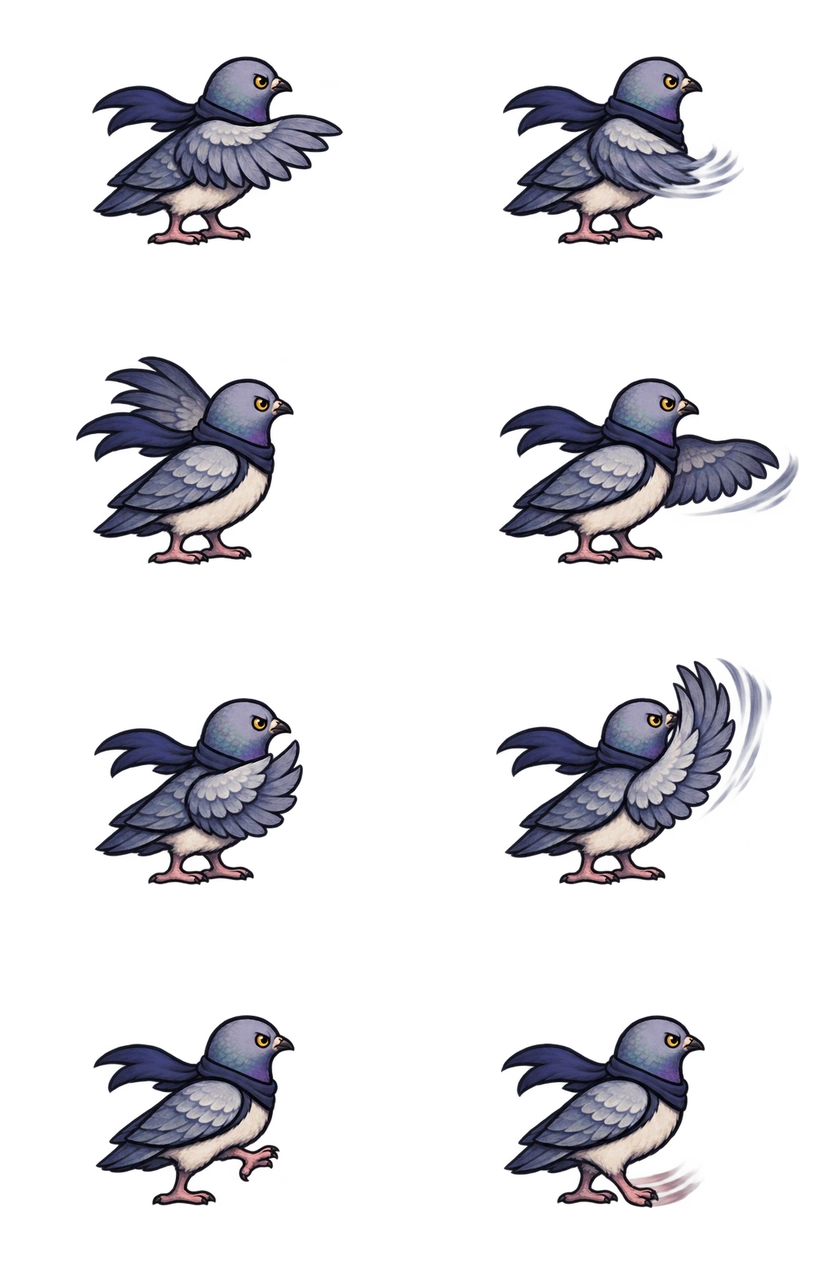
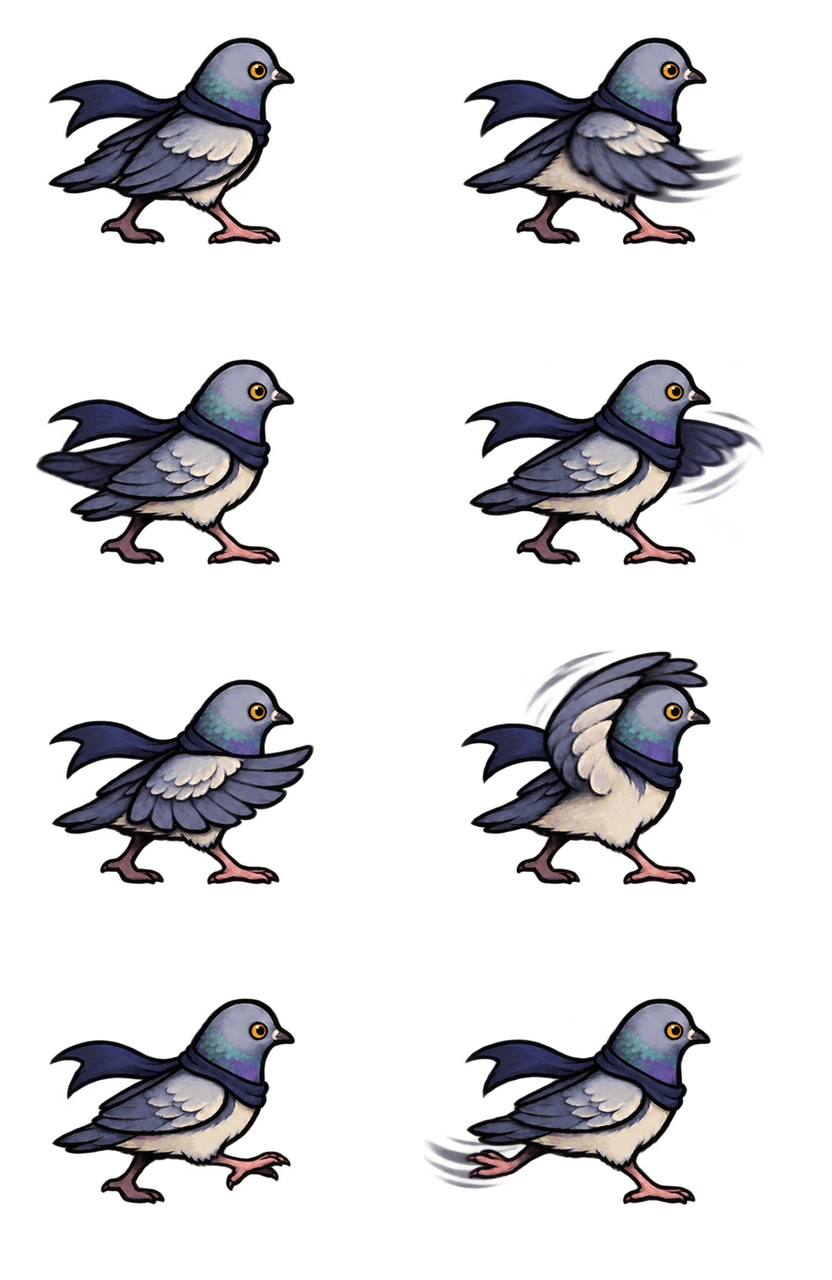
v0.71 打散石塔、簡化狀態列並恢復普攻特效
功能與變更
- throwable_stones.gd 與 main.gd 將六顆小石排成 1／2／3，主角可穿過大小石，普攻可將小石塔朝六個方向打散。
- game_ui.gd 去掉左上狀態列底板，使用資源格、貼圖與必要數字。
- main.gd 與 tutorial_motion_preview.gd 恢復普通揮擊的獨立月牙。adventure_visual.gd、art_catalog_v16.gd 與 assets/v70 更新角色貼圖、對位及 RD 說明。

原因
- 恢復平 A 視覺回饋，減少 HUD 對場景的遮擋，並以走路第 10 幀統一角色造型。

驗證
- Godot 網頁匯出後的資源包通過六組回歸，涵蓋石頭生成、穿越、打散、命中、普攻繪製、動作美術和 HUD。資源分片雜湊與部署大小預算均通過。
- v0.11 舊庫存測試的 Q 換武器與 HUD 斷言已執行，該套測試後續仍遇到舊符文與補給素材格式斷言。

diff --git a/server/index.js b/server/index.js
@@ -16,5 +16,5 @@ export default {async fetch(request,env){
  const category=['問題回報','操作與手感','美術與音效','玩法建議','其他'].includes(input.category)?input.category:'其他';
  if(message.length<3||message.length>2000||nickname.length>40)return reply({error:'意見請填3～2000字；暱稱最多40字。'},400);
  const id=typeof input.id==='string'&&/^[a-f0-9-]{36}$/.test(input.id)?input.id:crypto.randomUUID();
- try{await env.DB.prepare('INSERT INTO player_feedback (id,nickname,category,message,version,created_at) VALUES (?,?,?,?,?,?) ON CONFLICT(id) DO NOTHING').bind(id,nickname||'匿名玩家',category,message,'v0.70',new Date().toISOString()).run();return reply({ok:true,id});}catch{return reply({error:'暫時無法儲存，請稍後再試。'},503);}
+ try{await env.DB.prepare('INSERT INTO player_feedback (id,nickname,category,message,version,created_at) VALUES (?,?,?,?,?,?) ON CONFLICT(id) DO NOTHING').bind(id,nickname||'匿名玩家',category,message,'v0.71',new Date().toISOString()).run();return reply({ok:true,id});}catch{return reply({error:'暫時無法儲存，請稍後再試。'},503);}
 }};

diff --git a/web_shell.html b/web_shell.html
@@ -13,7 +13,7 @@ $GODOT_HEAD_INCLUDE
 <canvas id="canvas" width="1280" height="720" tabindex="0" aria-label="枝間鴿行遊戲畫面">此遊戲需要支援 WebGL 2 的瀏覽器。</canvas>
 <div id="loading">
 <svg viewBox="0 0 100 100" aria-hidden="true"><ellipse cx="49" cy="85" rx="31" ry="5" fill="#102f2b" opacity=".4"/><path d="M18 58Q16 78 52 78Q82 72 75 47Q70 22 54 25Q37 25 40 44Q21 40 18 58" fill="#d8dfe0"/><path d="M26 53Q50 43 64 65Q48 80 28 67Z" fill="#829698"/><path d="M45 47Q58 55 70 44" stroke="#85baaa" stroke-width="7" fill="none"/><circle cx="61" cy="34" r="3" fill="#243d3c"/><path d="M73 36L88 41L73 45Z" fill="#e8b579"/><path d="M43 78L40 86M61 78L65 86" stroke="#dca479" stroke-width="3" stroke-linecap="round"/></svg>
-<div class="eyebrow">PIGEON TOWER · v0.70</div><h1>枝間鴿行</h1>
+<div class="eyebrow">PIGEON TOWER · v0.71</div><h1>枝間鴿行</h1>
 <div>從一個鳥巢，走進會生長的世界。</div>
 <progress id="progress"></progress><div class="detail" id="status">正在準備羽翼，首次載入需要片刻…</div>
 </div>

diff --git a/RELEASE_NOTES.md b/RELEASE_NOTES.md
@@ -2,6 +2,10 @@
 
 歷史條目依版本整理。遊玩方式、操作與開發流程見 [README](README.md)。
 
+## v0.71 石堆、普攻特效與狀態列
+
+主角可穿過大、小石頭。小石頭生成為上 1、中 2、下 3 的石塔，近戰擊中任一顆便朝六個方向打散，飛石仍可撞傷敵人。左上狀態列改為透明背景，以小圖和格數顯示狀態。恢復平 A 和上下斬的羽刃月牙，並依走路第 10 幀重繪八張攻擊姿勢、十張跛行和一張滑翔。
+
 ## v0.70 翅膀普攻與展翅滑翔
 
 橫向普攻循環左右翅兩式，取消第三下突刺。上攻以右翅上揮，下攻以右腳向後抓踢。四式各兩張姿勢，使用預備與動態模糊影格。空中按住跳躍可展翅滑翔。待機、休息、起跳與走路依指定順序取幀，重傷跛行重畫十張。雙 C 風形、落地風壓與爆炸貼圖不透明度為 90%。
